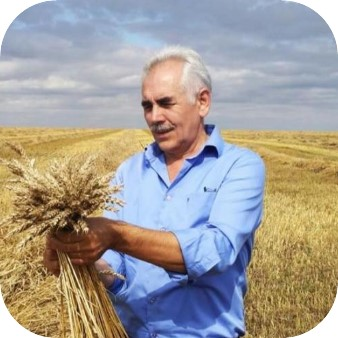
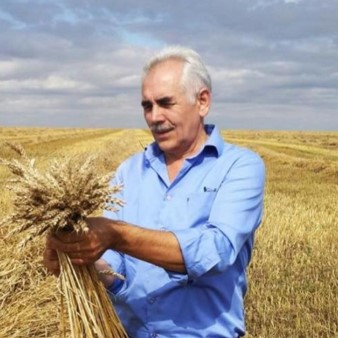
Use the full-bleed agronomist portrait

diff --git a/index.html b/index.html
@@ -181,7 +181,7 @@
           </div>
         </div>
         <div class="team-photos">
-          <img src="./assets/agronomist-portrait.jpg" width="338" height="338" alt="Агроном AgroInn осматривает колосья на поле" loading="lazy">
+          <img src="./assets/agronomist-portrait.jpg?v=525d51a2" width="338" height="338" alt="Агроном AgroInn осматривает колосья на поле" loading="lazy">
           <img class="team-group-photo" src="./assets/team-group.webp" width="959" height="960" alt="Групповое фото на сельскохозяйственной выставке" loading="lazy">
         </div>
       </div>

diff --git a/kk/index.html b/kk/index.html
@@ -181,7 +181,7 @@
           </div>
         </div>
         <div class="team-photos">
-          <img src="../assets/agronomist-portrait.jpg" width="338" height="338" alt="AgroInn агрономы егістікте масақты қарап тұр" loading="lazy">
+          <img src="../assets/agronomist-portrait.jpg?v=525d51a2" width="338" height="338" alt="AgroInn агрономы егістікте масақты қарап тұр" loading="lazy">
           <img class="team-group-photo" src="../assets/team-group.webp" width="959" height="960" alt="Ауыл шаруашылығы көрмесіндегі топтық сурет" loading="lazy">
         </div>
       </div>

diff --git a/assets/styles.css b/assets/styles.css
@@ -654,7 +654,6 @@ p { line-height: 1.6; }
 }
 
 .team-photos img { width: 100%; height: auto; border-radius: 11px; }
-.team-photos img:first-child { border-radius: 17%; }
 .team-photos img:nth-child(2) { transform: translateY(19px); }
 
 .contact {
